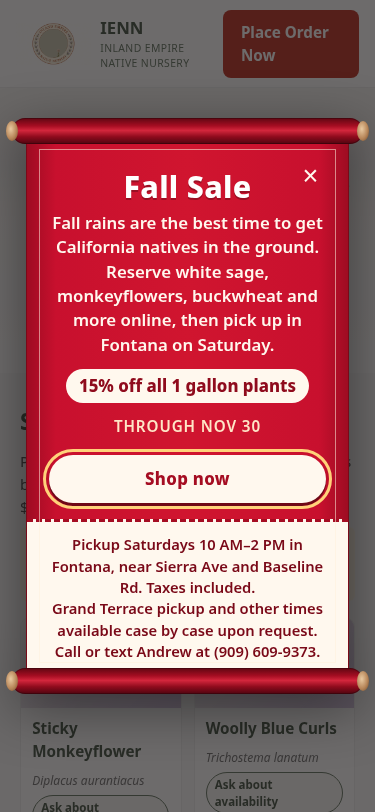
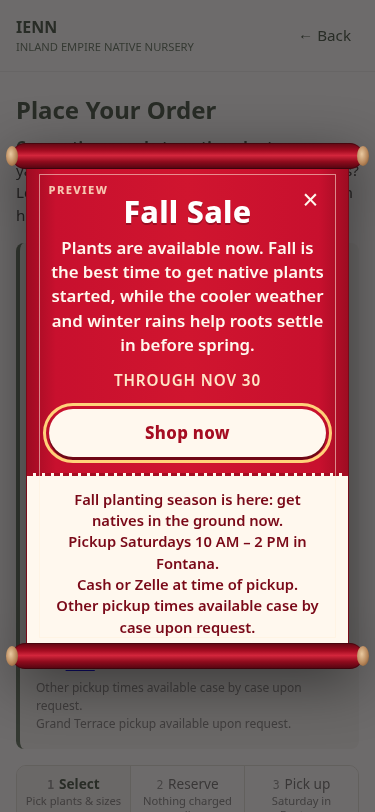
Live order-page screenshots (375/1280) + re-take promo bottom-info screenshots from live ?promo=preview (no discounts)

diff --git a/docs/screenshots/live/README.md b/docs/screenshots/live/README.md
@@ -1,0 +1,6 @@
+# Live order page (GitHub Pages)
+
+Taken from https://inlandempirenativenursery-bit.github.io/ienn-website/order.html after merging #6 (with #8). Until the Apps Script is deployed the page shows the fallback plant list ("Ask about availability").
+
+- [Phone, 375px](order-375.png)
+- [Desktop, 1280px](order-1280.png)
